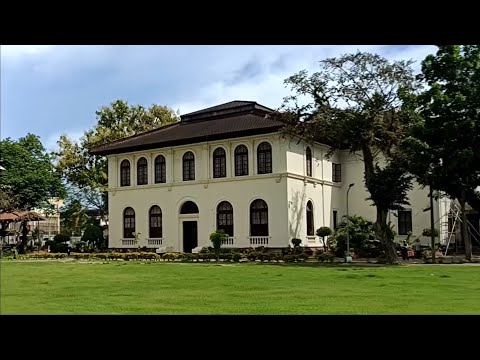
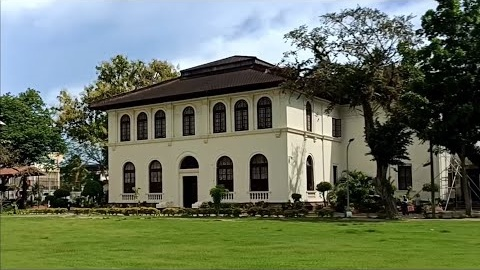
Refactor login layout: crop image padding, remove container box, remove badges and circle checks for clean typography

diff --git a/resources/js/layouts/auth/auth-split-layout.tsx b/resources/js/layouts/auth/auth-split-layout.tsx
@@ -11,115 +11,68 @@ export default function AuthSplitLayout({ children, title, description }: AuthLa
             <Head>
                 <link rel="preconnect" href="https://fonts.bunny.net" />
                 <link
-                    href="https://fonts.bunny.net/css?family=instrument-sans:400,500,600"
+                    href="https://fonts.bunny.net/css?family=instrument-sans:400,500,600,700"
                     rel="stylesheet"
                 />
             </Head>
 
-            <div className="relative grid h-dvh flex-col items-center justify-center px-8 sm:px-0 lg:max-w-none lg:grid-cols-2 lg:px-0">
-                {/* ── LEFT PANEL — WMSU College of Education visual banner ── */}
-                <div className="relative hidden h-full flex-col justify-between overflow-hidden bg-gradient-to-br from-[#5c000c] via-[#3d0007] to-[#1f0003] p-10 lg:flex select-none">
-                    {/* Architectural Background Image (Bright, vivid, clearly visible) */}
+            <div className="relative grid min-h-dvh flex-col items-center justify-center px-8 sm:px-0 lg:max-w-none lg:grid-cols-2 lg:px-0">
+                {/* ── LEFT PANEL — Full edge-to-edge WMSU College of Education architectural hero ── */}
+                <div className="relative hidden h-full w-full flex-col justify-between overflow-hidden bg-[#3b0207] p-10 lg:flex select-none">
+                    {/* Full Edge-to-Edge Architectural Photo (no top/bottom black padding) */}
                     <img
                         src="/wmsu_college_of_education.jpg"
                         alt="WMSU College of Education"
-                        className="pointer-events-none absolute inset-0 h-full w-full object-cover object-center opacity-85 brightness-105 contrast-105"
+                        className="pointer-events-none absolute inset-0 h-full w-full object-cover object-center"
                     />
 
-                    {/* Warm University Maroon & Sunlight Overlays */}
-                    {/* 1. Subtle Crimson wash for collegiate identity */}
-                    <div className="pointer-events-none absolute inset-0 bg-gradient-to-br from-[#800000]/45 via-[#500008]/40 to-[#250004]/60 mix-blend-multiply" />
+                    {/* Smooth, professional collegiate gradient: rich maroon shadow on the left to make text pop, clear fade to the right so the building and grounds remain naturally bright and visible */}
+                    <div className="pointer-events-none absolute inset-0 bg-gradient-to-r from-black/85 via-black/50 to-transparent" />
+                    <div className="pointer-events-none absolute inset-0 bg-gradient-to-t from-black/80 via-transparent to-black/40" />
+                    <div className="pointer-events-none absolute inset-0 bg-[#800000]/20 mix-blend-multiply" />
 
-                    {/* 2. Soft horizontal vignette: darker on the left to protect text, clear on the right to show the building */}
-                    <div className="pointer-events-none absolute inset-0 bg-gradient-to-r from-black/75 via-black/45 to-transparent" />
-
-                    {/* 3. Subtle bottom & top edge shading for header and footer contrast */}
-                    <div className="pointer-events-none absolute inset-0 bg-gradient-to-t from-black/60 via-transparent to-black/35" />
-
-                    {/* Ambient warm crimson glow accent */}
-                    <div className="pointer-events-none absolute -bottom-24 -left-24 h-96 w-96 rounded-full bg-[#800000]/30 blur-[100px]" />
-
-                    {/* ── Header: Logo & Brand ── */}
-                    <Link href={home()} className="relative z-20 flex items-center gap-3 w-fit group">
-                        <div className="flex h-12 w-12 shrink-0 items-center justify-center rounded-xl bg-white/15 ring-1 ring-white/30 backdrop-blur-md shadow-lg transition-transform group-hover:scale-105">
+                    {/* ── Top Header: University & College Identity ── */}
+                    <Link href={home()} className="relative z-20 flex items-center gap-3.5 w-fit group">
+                        <div className="flex h-12 w-12 shrink-0 items-center justify-center rounded-xl bg-white/20 ring-1 ring-white/30 backdrop-blur-md shadow-md transition-transform group-hover:scale-105">
                             <AppLogoIcon className="w-12 drop-shadow-md" />
                         </div>
                         <div className="flex flex-col drop-shadow-sm">
-                            <span className="text-[11px] uppercase tracking-wider text-rose-200 font-semibold">
+                            <span className="text-[11px] font-semibold uppercase tracking-wider text-rose-200">
                                 College of Education
                             </span>
-                            <span className="font-bold text-white text-lg leading-tight tracking-tight">
+                            <span className="text-lg font-bold tracking-tight text-white leading-tight">
                                 {name as string}
                             </span>
-                            <span className="text-[11px] text-zinc-200 font-medium">
+                            <span className="text-xs text-zinc-200">
                                 Western Mindanao State University
                             </span>
                         </div>
                     </Link>
 
-                    {/* ── Main Copy & Value Propositions ── */}
-                    <div className="relative z-20 my-auto max-w-lg py-8">
-                        <div className="rounded-2xl border border-white/15 bg-black/30 p-7 backdrop-blur-md shadow-2xl">
-                            <div className="mb-6">
-                                <span className="mb-3.5 inline-flex items-center gap-2 rounded-full border border-rose-300/30 bg-[#800000]/70 px-3.5 py-1 text-xs font-semibold text-white shadow-xs backdrop-blur-md">
-                                    <span className="h-2 w-2 rounded-full bg-rose-400 animate-pulse" />
-                                    Faculty Scheduling System
-                                </span>
+                    {/* ── Center Content: Clean, professional typography directly on the pane (NO containers, NO badges, NO checkmark bullets) ── */}
+                    <div className="relative z-20 my-auto max-w-lg py-12">
+                        <h2 className="text-3xl font-bold tracking-tight text-white sm:text-4xl lg:text-5xl leading-tight drop-shadow-md">
+                            Faculty Scheduling <br />
+                            <span className="font-light text-rose-100">Management System</span>
+                        </h2>
 
-                                <h2 className="mb-3 text-3xl font-bold leading-tight text-white lg:text-4xl tracking-tight drop-shadow-sm">
-                                    Manage Schedules
-                                    <span className="mt-1 block text-rose-100 font-normal">
-                                        with Confidence
-                                    </span>
-                                </h2>
-
-                                <p className="text-sm leading-relaxed text-zinc-100/90 font-normal">
-                                    Organize faculty loads, assign subject schedules, and catch conflicts before they become problems.
-                                </p>
-                            </div>
-
-                            {/* Feature check list */}
-                            <ul className="flex flex-col gap-3">
-                                {[
-                                    'Automatic conflict detection',
-                                    'Room & time slot optimization',
-                                    'Faculty teaching load monitoring',
-                                    'Printable schedule reports',
-                                ].map((item) => (
-                                    <li key={item} className="flex items-center gap-3">
-                                        <span className="flex h-5 w-5 shrink-0 items-center justify-center rounded-full bg-[#800000] text-white shadow-xs ring-1 ring-white/30">
-                                            <svg
-                                                className="h-3 w-3 stroke-[3]"
-                                                fill="none"
-                                                stroke="currentColor"
-                                                viewBox="0 0 24 24"
-                                            >
-                                                <path
-                                                    strokeLinecap="round"
-                                                    strokeLinejoin="round"
-                                                    d="M5 13l4 4L19 7"
-                                                />
-                                            </svg>
-                                        </span>
-                                        <span className="text-sm font-medium text-white drop-shadow-xs">{item}</span>
-                                    </li>
-                                ))}
-                            </ul>
-                        </div>
+                        <p className="mt-5 text-base leading-relaxed text-zinc-100/90 drop-shadow-sm">
+                            Empowering academic excellence through organized faculty timetables, streamlined room assignments, and conflict-free collegiate scheduling.
+                        </p>
                     </div>
 
-                    {/* ── Footer ── */}
-                    <div className="relative z-20 flex items-center justify-between border-t border-white/15 pt-5 text-xs text-zinc-200">
-                        <p className="font-medium drop-shadow-xs">
+                    {/* ── Footer: Institutional Attribution ── */}
+                    <div className="relative z-20 flex items-center justify-between border-t border-white/20 pt-6 text-xs text-zinc-200 font-medium">
+                        <p className="drop-shadow-xs">
                             &copy; {new Date().getFullYear()} Western Mindanao State University
                         </p>
-                        <span className="text-[11px] font-mono font-medium text-zinc-200/90 drop-shadow-xs">
-                            WMSU • Baliwasan Campus
+                        <span className="text-[11px] font-mono tracking-wide text-zinc-200/90 drop-shadow-xs">
+                            Baliwasan Campus • Zamboanga City
                         </span>
                     </div>
                 </div>
 
-                {/* ── RIGHT PANEL — Form Area ── */}
+                {/* ── RIGHT PANEL — Login Form Area ── */}
                 <div className="w-full lg:p-8">
                     <div className="mx-auto flex w-full flex-col justify-center space-y-6 sm:w-[350px]">
                         {/* Mobile logo */}
